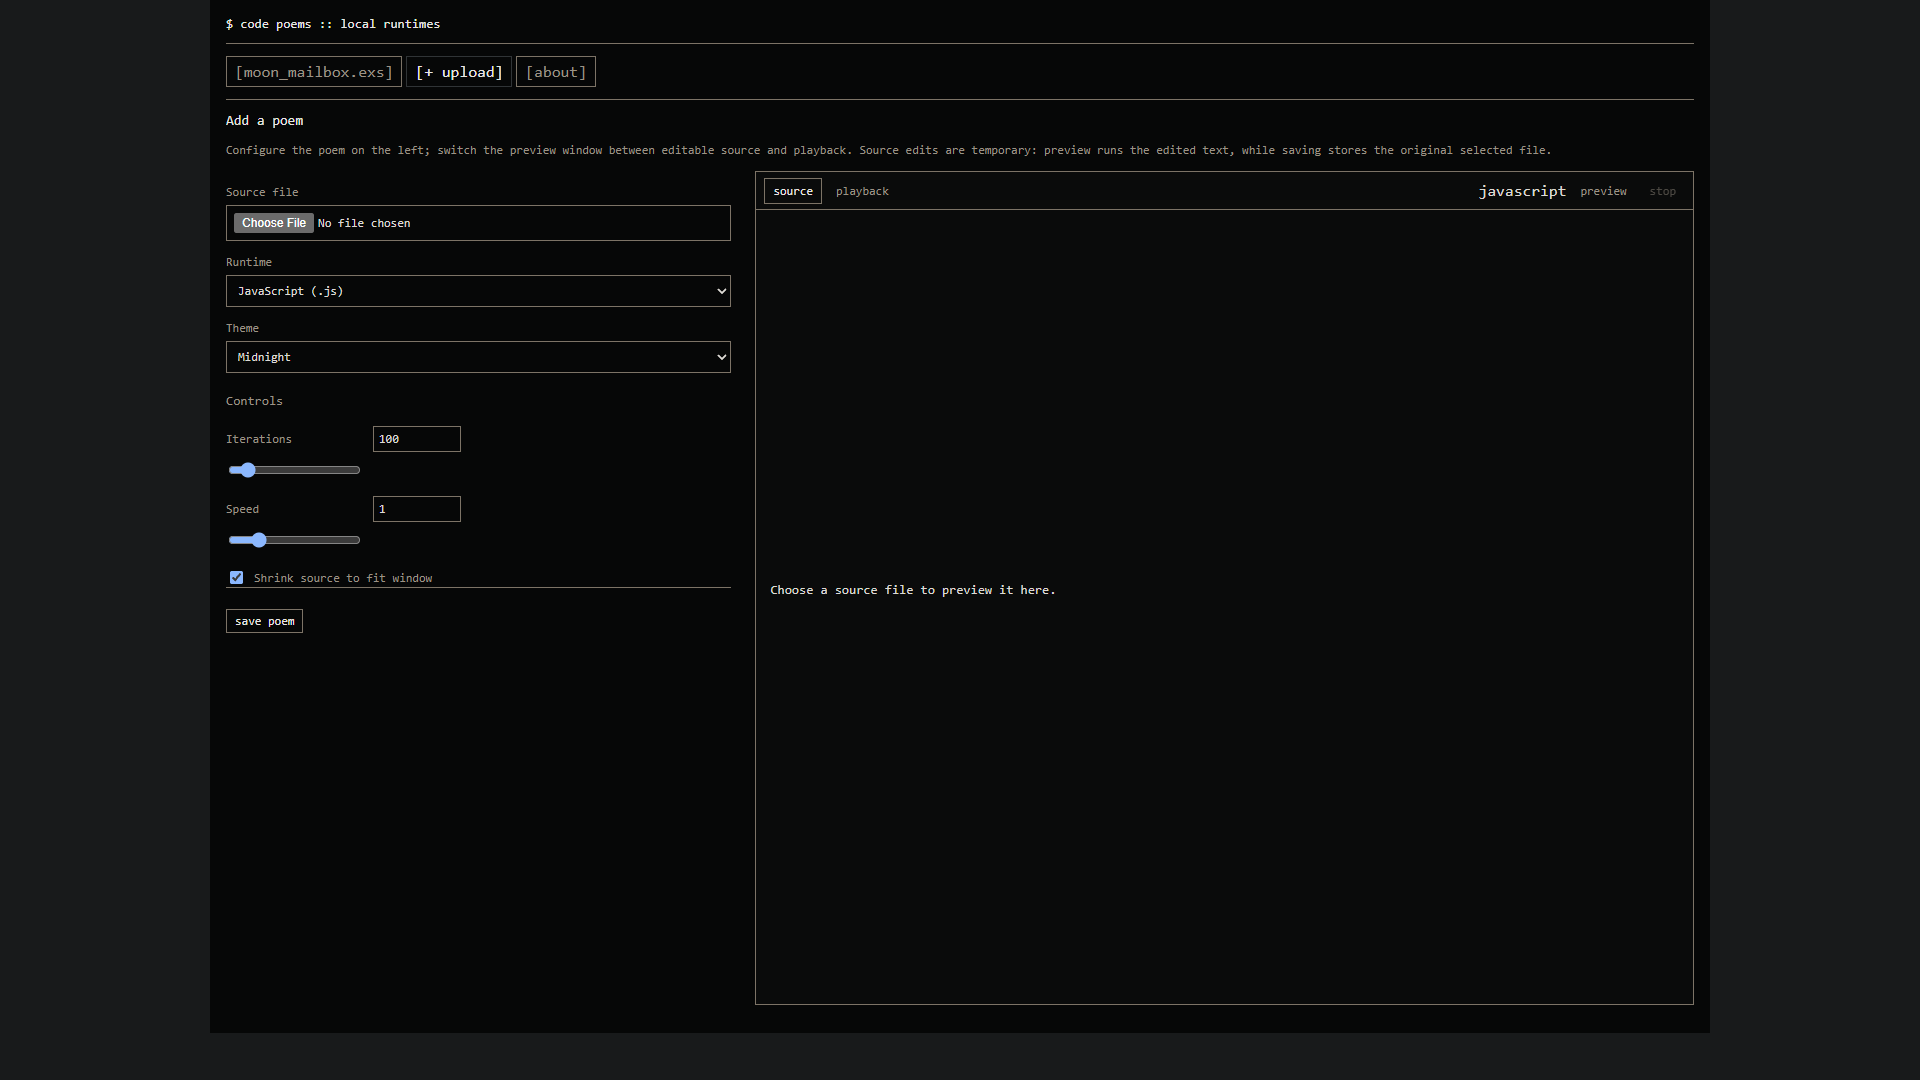
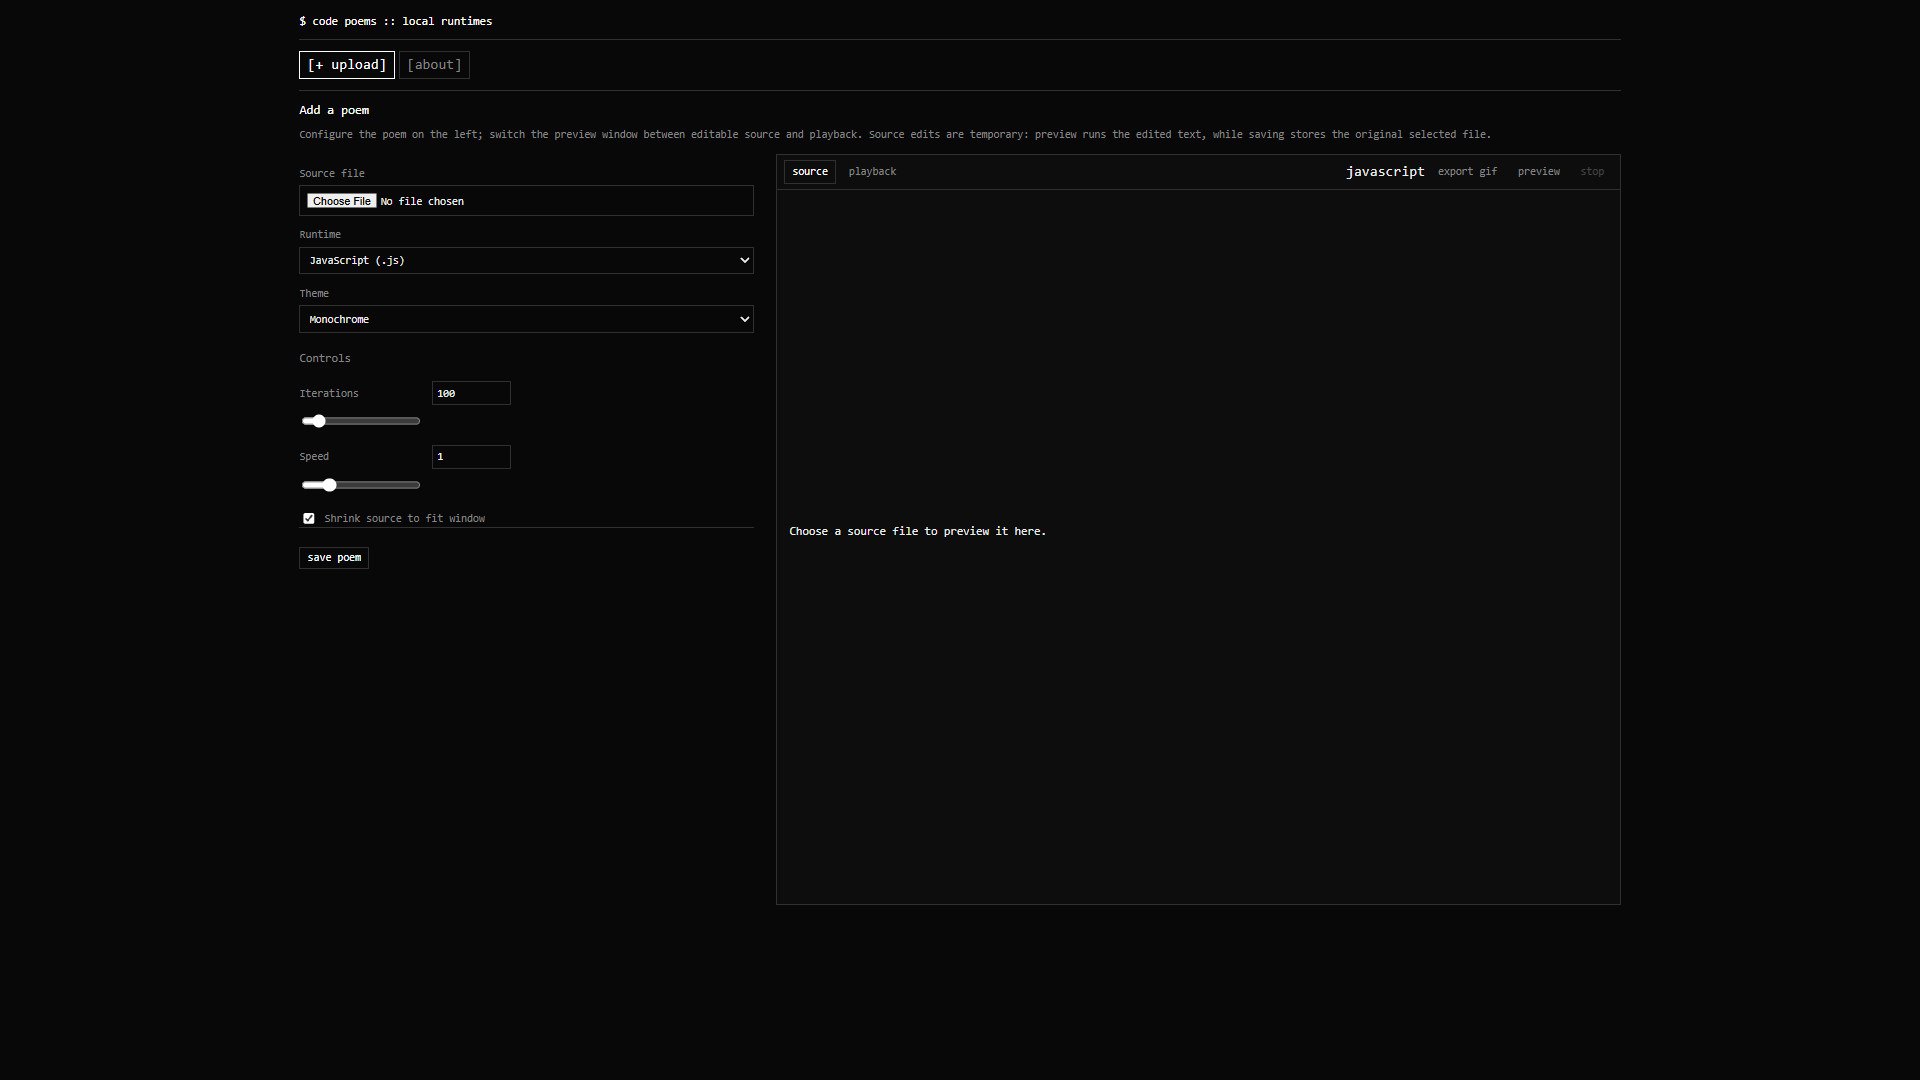
improved readme

diff --git a/README.md b/README.md
@@ -4,6 +4,8 @@ A local web gallery for executable poems. Browse and edit source in the
 browser, run it with an installed language runtime, and add poems with their
 runtime, controls, and theme configuration.
 
+![About](screenshots/about.png)
+
 ## Project layout
 
 - `index.html` is the browser interface.
@@ -78,6 +80,10 @@ Example GIF export:
 
 ![Animated GIF example of a poem playback](screenshots/samplepoem.gif)
 
+Playback window:
+
+![Playback window with editable source and poem output](screenshots/playback.png)
+
 The included `moon_mailbox.exs` poem types its lines character by character,
 holds the completed page for three seconds, then removes one line per second
 until the page is empty and starts again. Its speed control changes the
@@ -98,6 +104,14 @@ maximum configured `speed` value, stopping at a repeated cleared frame or after
 30 seconds.
 **Save poem** stores the original selected file, not edits made in the browser,
 and adds its settings to `config\poems.json`.
+
+Upload source editor:
+
+![Upload form with source editor and runtime controls](screenshots/upload-source.png)
+
+Upload playback preview:
+
+![Upload form with playback preview](screenshots/upload-playback.png)
 
 The upload form starts with `iterations` (1–1000, default 100) and `speed`
 (0.25–4, default 1) controls. Each configured control is passed as a
